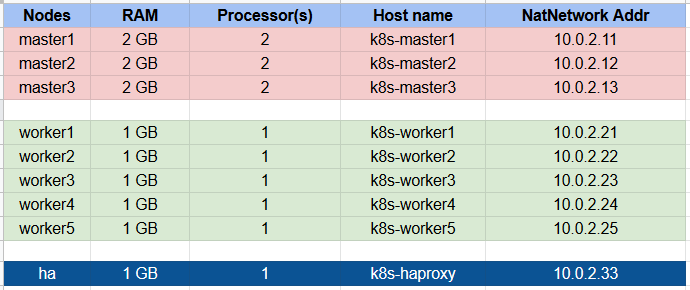
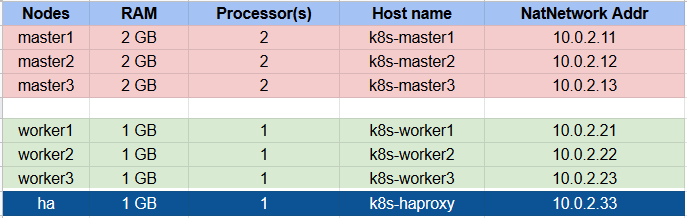
Update HA cluster

diff --git a/_posts/2019-01-31-ha-cluster-with-kubeadm.md b/_posts/2019-01-31-ha-cluster-with-kubeadm.md
@@ -4,8 +4,9 @@ title: Deploying multi-master nodes (High Availability) K8S
 tags: [tutorials, Kubernetes]
 categories: [tutorials, kubernetes]
 date: 2019-01-31
-summary: "kubeadm is a tool which is a part of the Kubernetes project. It helps you deploy a Kubernetes cluster but it still has some limitations and one of these is that it doesn't support multi-master nodes (HA). This article will show you the way to create a HA Cluster with kubeadm."
 ---
+
+> kubeadm is a tool which is a part of the Kubernetes project. It helps you deploy a Kubernetes cluster but it still has some limitations and one of these is that it doesn't support multi-master nodes (HA). This article will show you the way to create a HA Cluster with kubeadm.
 
 **Contents:**
 
@@ -31,13 +32,18 @@ summary: "kubeadm is a tool which is a part of the Kubernetes project. It helps 
 The bare-metal server runs Ubuntu Server 16.04 and there are 9 Virtual Machines (VMs) will be installed on it. Both of the VMs also run Ubuntu Server 16.04.
 
 * 3 master nodes
-* 5 worker nodes
+* 3 worker nodes
 * 1 HAproxy load balancer
 
 ![nodes_configuration](/static/img/multi-master-ha/Nodes.PNG)
 
 {:.image-caption}
 *The configurations of nodes*
+
+![nodes_configuration](/static/img/multi-master-ha/stacketcd.png)
+
+{:.image-caption}
+*The stacked etcd cluster*
 
 <a name="installing-docker"><a/>
 ### 1.2. Installing docker kubelet kubeadm kubectl kubernetes-cni on `master nodes` and `worker nodes`
